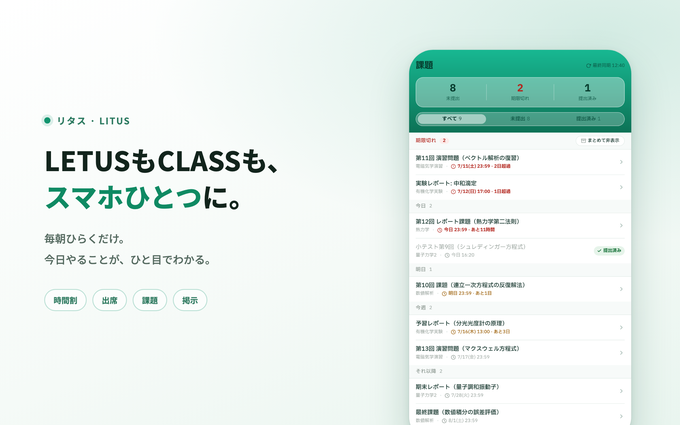
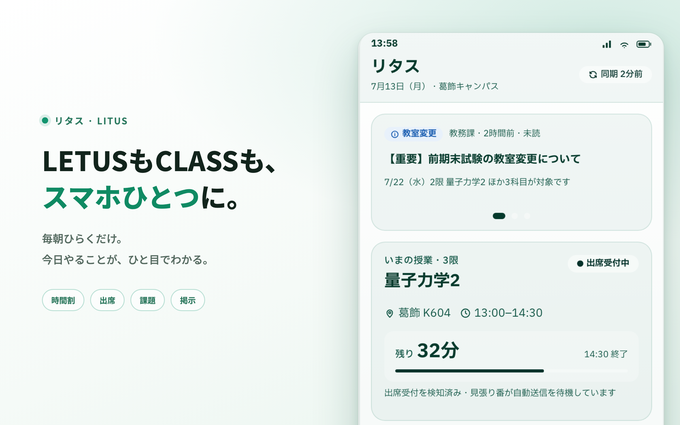
製品カードのスクリーンショットを読めるサイズに作り直す
どちらもカード表示幅(338px)で文字が潰れていたため差し替えた。

リタス: 課題一覧 → ホーム画面。端末フレームごと1.4倍に拡大し、下端を
カンバス外へ逃がして上部だけを大きく見せる（16:10の横長枠に縦長の端末を
全部入れると必ず小さくなるため）。看板の緑グラデは撮影時のCSS注入で白基調に
置き換え、LTW側の淡色地と重さをそろえた。litus-design の元HTMLは編集しない。

LTW: store-shot1(時間割グリッド) → store-shot3(ポップアップ)。5列×3行の
グリッドは縮小すると科目名が潰れる。shot3 は「左に見出し＋右に画面1枚」で
litus.png と構造がそろい、数字とバッジが縮小に耐える。

alt は2枚とも新しい画面の内容に合わせて書き直し、キャッシュ用のクエリを
更新した（litus は ?v=2 で配信済みのため v=3 へ）。

diff --git a/public/index.html b/public/index.html
@@ -404,7 +404,7 @@
         </div>
         <div class="cards">
           <a class="card" href="https://litus.waiteu.dev/">
-            <img class="card-shot" src="/shots/litus.png?v=2" width="680" height="425" loading="lazy" decoding="async" alt="リタスの課題一覧。締切ごとに色分けして、提出状況をまとめて表示">
+            <img class="card-shot" src="/shots/litus.png?v=3" width="680" height="425" loading="lazy" decoding="async" alt="リタスのホーム画面。いまの授業と残り時間、出席の受付状況、届いた掲示をまとめて表示">
             <span class="card-body">
               <span class="card-meta">
                 <span class="card-kind">モバイルアプリ</span>
@@ -419,7 +419,7 @@
           </a>
 
           <a class="card" href="https://lms.waiteu.dev/">
-            <img class="card-shot" src="/shots/ltw.png" width="680" height="425" loading="lazy" decoding="async" alt="LETUS Task Watcher が取り込んだCLASSの時間割の画面">
+            <img class="card-shot" src="/shots/ltw.png?v=2" width="680" height="425" loading="lazy" decoding="async" alt="LETUS Task Watcher のポップアップ。今日の授業と24時間以内の締切を一覧表示">
             <span class="card-body">
               <span class="card-meta">
                 <span class="card-kind">Chrome / Edge拡張</span>

diff --git a/tools/make-shots.py b/tools/make-shots.py
@@ -48,11 +48,19 @@ from PIL import Image
 # --- 環境パス（Mac） ---
 CHROME = "/Applications/Google Chrome.app/Contents/MacOS/Google Chrome"
 SCREENS = "/Users/waiteu/dev/litus-design/previews/screens"
-LTW_SRC = "/Users/waiteu/dev/lms-task-watcher-develop/store-assets/store-shot1.png"
+# shot3 = 「左に見出し＋右にポップアップ1枚」。litus.png と左右の構造が揃い、
+# 数字・バッジが大きいので 680x425 まで縮めても読める。
+# （shot1 は時間割グリッド 5列×3行＝縮小すると科目名が潰れるため不採用）
+LTW_SRC = "/Users/waiteu/dev/lms-task-watcher-develop/store-assets/store-shot3.png"
 OUT = "/Users/waiteu/dev/waiteu-dev/public/shots"
 TMP = "/Users/waiteu/dev/waiteu-dev/.tmp-shots"
 
 OUT_SIZE = (680, 425)   # 16:10 = カード表示幅の2倍
+
+# home.html を 520x940 で撮ったときの端末フレームの位置（2倍解像度の実測値）。
+# 影のにじみを含めず枠ぴったりに切る。プレビュー側の .phone を変えたら測り直す。
+PHONE_BOX = (127, 125, 911, 1817)
+PHONE_RADIUS_CSS = 20   # --radius-sheet。拡大率に応じて合成側でスケールする
 
 os.makedirs(OUT, exist_ok=True)
 os.makedirs(TMP, exist_ok=True)
@@ -75,12 +83,21 @@ def shoot(src_path, dst, w, h, extra=None):
     return Image.open(dst)
 
 
-def shoot_screen(name, w, h, hide=None):
-    """プレビュー画面HTMLを撮る。hide のセレクタは撮影時のみ非表示にする。"""
+def shoot_screen(name, w, h, hide=None, css=None):
+    """プレビュー画面HTMLを撮る。
+
+    hide のセレクタは撮影時のみ非表示にする。css は撮影時だけ差し込む追加CSS
+    （トークンの上書きなど）。どちらも litus-design 側の元HTMLは編集しない。
+    """
     src_path = os.path.join(SCREENS, name + ".html")
-    if hide:
+    if hide or css:
         html = open(src_path, encoding="utf-8").read()
-        style = "<style>" + ",".join(hide) + "{display:none!important}</style>\n</head>"
+        style = "<style>"
+        if hide:
+            style += ",".join(hide) + "{display:none!important}"
+        if css:
+            style += css
+        style += "</style>\n</head>"
         assert "</head>" in html
         html = html.replace("</head>", style, 1)
         src_path = os.path.join(TMP, name + ".shot.html")
@@ -88,15 +105,37 @@ def shoot_screen(name, w, h, hide=None):
     return shoot(src_path, os.path.join(TMP, name + ".png"), w, h).convert("RGB")
 
 
-def build_litus():
-    # 課題(assignments)画面を撮り、白基調のリスト部分で切り出す。
-    #   幅540 = 右上「最終同期」ラベルが欠けない最小幅。
-    #   高さ1240 = 下部デバッグ操作行(position:fixed)を内容より十分下へ逃がす。
-    #   crop(0,0,1080,1900) = 緑ヘッダー帯〜リスト末尾（debug 行は入らない）。
-    scr = shoot_screen("assignments", 540, 1240, hide=[".theme-toggle"])
-    phone = scr.crop((0, 0, 1080, 1900))
+def build_litus(screen=None, out_name="litus.png"):
+    # どの画面を載せるかは LITUS_SCREEN で差し替えられる（既定は下の SCREEN）。
+    #   home     … .phone(390x844・角丸・影)で端末枠まで描かれる唯一の画面。
+    #               緑グラデの「看板」意匠なので画面全体が緑になる。
+    #   それ以外 … 白基調（緑ヘッダー帯＋白い本文）。端末枠は無いので
+    #               合成側の角丸＋影を枠として使う。
+    screen = screen or os.environ.get("LITUS_SCREEN", "home")
+    if screen == "home":
+        # home は看板グラデ（緑）が画面全体に敷かれる意匠。白基調で見せたいので
+        # 撮影時だけ地を白に、ガラス面を「白地でも沈まない淡いカード」に置き換える。
+        # ※実アプリのホームはライト/ダークとも緑。これは掲載素材用の見せ方。
+        white = (
+            ":root{--grad-top:#ffffff;--grad-bottom:#f2f7f5;"
+            "--glass-bg:rgba(16,110,84,.055);"
+            "--glass-border:rgba(16,110,84,.14);}"
+        )
+        scr = shoot_screen(screen, 520, 940, hide=[".theme-toggle"], css=white)
+        phone = scr.crop(PHONE_BOX)
+    else:
+        # 幅540 = 右上のラベルが欠けない最小幅。
+        # 高さ1240 = 下部のデバッグ操作行(position:fixed)を内容より下へ逃がす。
+        scr = shoot_screen(screen, 540, 1240, hide=[".theme-toggle"])
+        phone = scr.crop((0, 0, 1080, 1900))
     phone_path = os.path.join(TMP, "phone.png")
     phone.save(phone_path)
+
+    # 合成キャンバス上での端末の表示幅。素の 392px から拡大するほど文字が読める。
+    # 角丸は元の --radius-sheet を同じ倍率で拡大しないと枠の形が崩れる。
+    PHONE_W = 540
+    src_w_css = (PHONE_BOX[2] - PHONE_BOX[0]) / 2
+    PHONE_R = round(PHONE_RADIUS_CSS * PHONE_W / src_w_css)
 
     composer = f"""<!doctype html><html lang="ja"><head><meta charset="utf-8">
 <link rel="preconnect" href="https://fonts.googleapis.com">
@@ -112,7 +151,7 @@ def build_litus():
       linear-gradient(158deg, #ffffff 0%, #f5faf7 58%, #e9f5ef 100%);
   }}
   .wrap {{ display:flex; width:100%; height:100%; align-items:center; }}
-  .left {{ width:53%; padding:0 40px 0 78px; }}
+  .left {{ width:53%; padding:0 28px 0 74px; }}
   .eyebrow {{ display:flex; align-items:center; gap:11px; margin-bottom:26px; }}
   .dot {{ width:11px; height:11px; border-radius:50%; background:#12946e;
           box-shadow:0 0 0 5px rgba(18,148,110,.14); }}
@@ -125,9 +164,12 @@ def build_litus():
            border:1.5px solid rgba(18,148,110,.28); border-radius:999px;
            background:rgba(255,255,255,.6); }}
   .right {{ width:47%; height:100%; position:relative; }}
-  .phone {{ position:absolute; top:88px; left:86px; width:392px;
-            border-radius:42px; overflow:hidden;
-            box-shadow:0 34px 70px rgba(14,80,60,.22), 0 4px 14px rgba(14,80,60,.10);
+  /* 端末を大きく置き、下端をカンバスの外へ逃がす（bleed）。
+     16:10 の横長枠に縦長の端末を「全部」入れると必ず小さくなるので、
+     上部だけを大きく見せて可読性を取る。 */
+  .phone {{ position:absolute; top:58px; left:-4px; width:{PHONE_W}px;
+            border-radius:{PHONE_R}px; overflow:hidden;
+            box-shadow:0 40px 80px rgba(14,80,60,.24), 0 6px 18px rgba(14,80,60,.12);
             outline:1px solid rgba(0,0,0,.04); }}
   .phone img {{ display:block; width:100%; }}
 </style></head><body>
@@ -154,7 +196,7 @@ def build_litus():
     comp = shoot(composer_path, os.path.join(TMP, "composer.png"),
                  1200, 750, extra=["--virtual-time-budget=4000"]).convert("RGB")
     comp.resize(OUT_SIZE, Image.LANCZOS).save(
-        os.path.join(OUT, "litus.png"), optimize=True)
+        os.path.join(OUT, out_name), optimize=True)
 
 
 def build_ltw():
